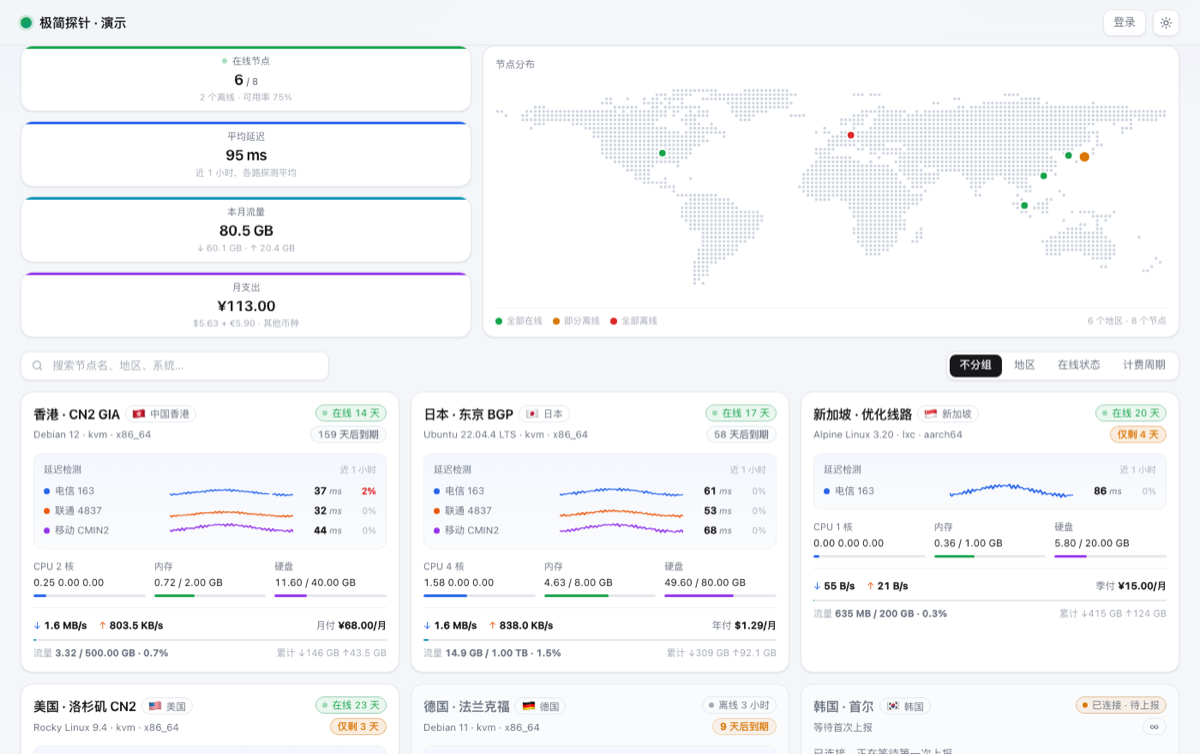
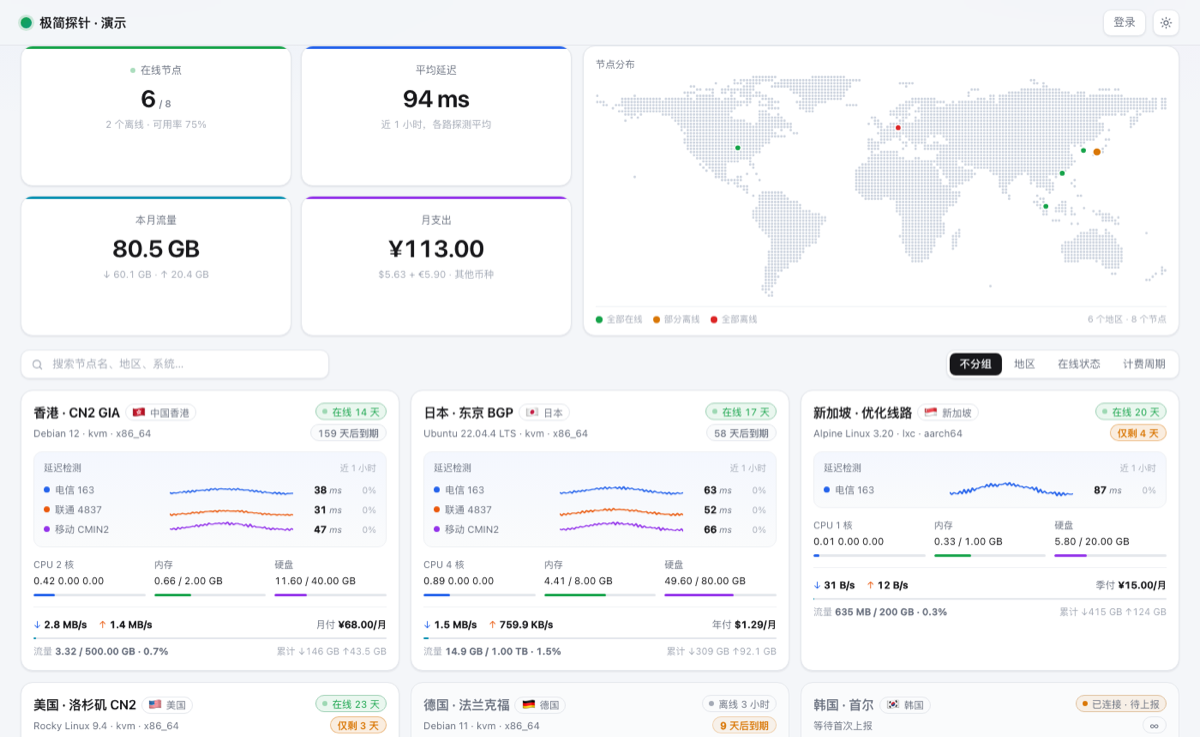
磁贴改田字格并与地图配平；修正地图网格比例

diff --git a/minimal/dist/index.html b/minimal/dist/index.html
@@ -77,11 +77,12 @@ main{padding:18px 0 64px}
 /* ---------- 顶部：磁贴靠左 + 右侧世界地图 ---------- */
 /* 类名不能叫 .top——头部 <header class="top"> 已占用，撞车会互相污染 */
 .overview{display:grid;grid-template-columns:1fr;gap:13px;margin-bottom:16px}
-/* 宽屏下磁贴竖成一列：2×2 会把每个磁贴拉得过高、留白多。
-   比例上让地图与左侧磁贴列**高度接近**（地图高 = 宽/3.33），否则高的一侧会把另一侧撑出空白。 */
-@media(min-width:1040px){
-  .overview{grid-template-columns:minmax(0,.66fr) minmax(0,1.02fr);align-items:stretch}
-  .overview .summary{grid-template-columns:1fr}
+/* 宽屏下磁贴是**田字格**（2×2），与右侧地图左右并排。
+   断点取 980 而不是 1040：平板横屏（iPad 1024）要能并排，否则会掉进单列、上下堆叠。
+   两列宽度按「两者高度接近」来定：地图高 = 宽/2.54（183×72 的等比方格），
+   磁贴块高 = 2 行 + 间距。比例失衡时高的一侧会把另一侧撑出一大块空白。 */
+@media(min-width:980px){
+  .overview{grid-template-columns:minmax(0,.48fr) minmax(0,.52fr);align-items:stretch}
 }
 .summary{display:grid;grid-template-columns:repeat(2,minmax(0,1fr));gap:11px;margin-bottom:0}
 /* 汇总磁贴：顶部一道彩色细条 + 同色的小圆点，四个磁贴各有自己的色相，
@@ -107,6 +108,13 @@ main{padding:18px 0 64px}
   .mapwrap{min-height:0}
   .overview{gap:10px}
 }
+/* 田字格里每格面积大了，字号也要跟上，否则四块大卡片里塞着四行小字显得空 */
+@media(min-width:980px){
+  .tile{padding:20px 16px 18px}
+  .tile .k{font-size:12px}
+  .tile .v{font-size:28px;margin-top:6px;letter-spacing:-.7px}
+  .tile .s{font-size:11.5px;margin-top:3px}
+}
 /* 磁贴内文字居中 */
 .tile{text-align:center}
 .tile .k{justify-content:center}
@@ -118,8 +126,10 @@ main{padding:18px 0 64px}
 .maphead .hint{font-size:11px;color:var(--faint)}
 .mapwrap{flex:1;display:flex;align-items:center;min-height:120px}
 .worldmap{display:block;width:100%;height:auto;overflow:visible}
-/* 陆地点：零长度线段 + 圆头线帽 = 圆点，比方块精致 */
-.worldmap .land{fill:none;stroke:var(--map-land);stroke-width:4.2;stroke-linecap:round}
+/* 陆地点：零长度线段 + 圆头线帽 = 圆点，比方块精致。
+   点径要跟着格子走：格距 6 单位，点径取 4.8 约合八成填充——
+   再小会在地图被缩窄后糊成灰雾，再大就几乎连成一片。 */
+.worldmap .land{fill:none;stroke:var(--map-land);stroke-width:4.8;stroke-linecap:round}
 /* 亮点是纯色圆点，颜色即在线情况 */
 .mdot{cursor:pointer;stroke:var(--panel);stroke-width:2.5;transition:stroke-width .15s}
 .mdot.t-ok{fill:var(--ok)}
@@ -479,7 +489,7 @@ var FOREVER = "\u221E";
 /* 世界地图数据：由 dev/gen-map.mjs 生成（数据源 Natural Earth 110m，公有领域）。
    含陆地点阵掩膜（每行 ceil(cols/4) 个十六进制字符，4 格/字符）与国家码→代表点经纬度。
    运行时展开成 SVG，文件里只留这份紧凑数据。 */
-var MAPDATA={"_":"由 dev/gen-map.mjs 生成，数据源 Natural Earth 110m（公有领域）。勿手改。","cols":160,"rows":48,"latMax":84,"latMin":-58,"land":["00000000003ff81ffc0000000000000000000000","0000000003be1fffff0007700000007800000000","0000003116f87ffffc00000000060007c0000000","000000701f4801fffe00000000c00fffd0020000","0070000fc6ff80fffc00001800037ffffffffe00","c1fffffaffb2e0ff800001ffcbffffffffffffff","237fffffffa7e07c03c0079fbfffffffffffffff","03fffffffe0f003800003f3fffffffffffffff7c","00703ffffc0790000000373ffffffffffffe1100","008007ffff83f8000002047ffffffffffff80700","000001fffff7fe00000b3fffffffffffffff0400","000001ffffffc2000000fffffffffffffffd0000","0000007fffffe0000001fffffffffffffffd0000","0000007fffff80000001fdf87ffffffffff18000","0000007ffffe0000000f837fbfffffffffc20000","0000007ffffe0000000f006ffffffffff1820000","0000003ffffc00000007f810fffffffff89c0000","0000000ffff00000000ffe41fffffffffc200000","00000003fc100000001ffffcfbfffffffc000000","00000001f8000000003ffffefc7ffffff8000000","0000000078000000007fffff7fc1fffff4000000","0000000078820000007fffff3fc0fe7e00000000","000000001f800000007fffff9f80783e00000000","0000000001e0000000ffffffdc00700f00000000","0000000000200000007fffffe200200302000000","00000000001ff800003ffffffc00300801000000","000000000003ff00000f3ffffc00000418000000","000000000007ff8000000ffff800001c70000000","00000000000fffc000000fffe000000cf0000000","00000000000ffffe000007ffc0000006305e1000","00000000000fffff000007ff800000010003e000","000000000007ffff000003ffc000000001014000","000000000003fffe000003ffc000000000190000","000000000003fffe000007ffc400000000f18000","0000000000007ffc000007ff0c00000003ff8000","0000000000007ffc000003ff0c0000000fffc040","0000000000007ff0000003ff180000003fffe000","0000000000007fc0000001fe000000001ffff000","000000000000ffc0000000fc000000001ffff000","000000000000ff80000000f0000000001e0ff000","000000000000fe0000000000000000000003e004","000000000001f800000000000000000000000002","000000000001e00000000000000000000000c008","000000000001e000000000000000000000000030","000000000001e000000000000000000000000000","0000000000018000000000000000000000000000","0000000000014000000000000000000000000000","0000000000000000000000000000000000000000"],"cc":{"FJ":[178,-17.7],"TZ":[34.3,-6.5],"EH":[-12,24.8],"CA":[-91.1,56.4],"US":[-90.4,38.3],"KZ":[65.3,47.3],"UZ":[65.3,41.2],"PG":[146.2,-7.8],"ID":[114,0.1],"AR":[-65.1,-37],"CL":[-71.4,-38.1],"CD":[23.1,-3.8],"SO":[46.9,6.6],"KE":[37.8,1.1],"SD":[29.3,12.8],"TD":[18,13],"HT":[-72.7,18.8],"DO":[-70.5,18.7],"RU":[90.9,59.1],"BS":[-77.9,24.5],"FK":[-59.6,-51.7],"NO":[18.1,66.2],"GL":[-41,74.1],"TF":[69.5,-49.1],"TL":[125.9,-8.7],"ZA":[24.7,-28.6],"LS":[28.4,-29.6],"MX":[-103.1,23.9],"UY":[-56.1,-32.7],"BR":[-56.9,-9.7],"BO":[-64.1,-16.3],"PE":[-74.1,-7.8],"CO":[-72.7,4.5],"PA":[-80.3,8.5],"CR":[-84.2,9.8],"NI":[-85,13.1],"HN":[-86.3,14.7],"SV":[-88.9,13.9],"GT":[-90.3,15.5],"BZ":[-88.6,17.4],"VE":[-66.9,7.2],"GY":[-58.9,4.5],"SR":[-55.9,3.7],"FR":[3.3,47],"EC":[-78.7,-1.6],"PR":[-66.4,18.3],"JM":[-77.3,18.2],"CU":[-79.7,21.7],"ZW":[29.7,-18.9],"BW":[24.5,-22.5],"NA":[17.9,-21.6],"SN":[-14.6,13.9],"ML":[-5.8,14.1],"MR":[-12.4,18.8],"BJ":[2.3,9.8],"NE":[8.7,15.5],"NG":[8.3,9.7],"CM":[13.2,6.9],"TG":[0.9,8.9],"GH":[-1,8.3],"CI":[-6.3,7.9],"GN":[-11,10.4],"GW":[-15.2,12],"LR":[-9.1,6.8],"SL":[-11.7,8.6],"BF":[-1.9,12.1],"CF":[20.7,6.3],"CG":[14.9,-0.9],"GA":[11.9,-0.3],"GQ":[10.1,1.6],"ZM":[28,-12.8],"MW":[34.1,-12.9],"MZ":[35,-17.7],"SZ":[31.4,-26.4],"AO":[17.4,-10.9],"BI":[30,-3.2],"IL":[35.1,32],"LB":[35.9,33.8],"MG":[47,-18],"PS":[35.2,31.8],"GM":[-15.3,13.5],"TN":[9.8,34],"DZ":[3,29.7],"JO":[36.7,31.1],"AE":[54.2,24.2],"QA":[51.2,25.3],"KW":[47.7,29.3],"IQ":[44.4,33.4],"OM":[56.6,20.9],"VU":[166.9,-15.4],"KH":[104.9,12.6],"TH":[100.7,13.2],"LA":[103.7,18.3],"MM":[97.2,20],"VN":[105.9,16.7],"KP":[127.4,39.9],"KR":[127.5,36.7],"MN":[104.6,47.2],"IN":[83.6,24],"BD":[90.6,23.4],"BT":[90.6,27.5],"NP":[84.6,28.2],"PK":[69.4,30.8],"AF":[67.8,34.8],"TJ":[70.8,38.5],"KG":[74,41.4],"TM":[58.5,39.3],"IR":[53.2,33.4],"SY":[38,35.1],"AM":[45.3,39.9],"SE":[16.6,62.7],"BY":[28.3,53.3],"UA":[30.5,48.7],"PL":[19.5,51.7],"AT":[13.5,47.6],"HU":[19.2,47.4],"MD":[28.5,47],"RO":[25.2,45.9],"LT":[24,55.2],"LV":[24.9,56.9],"EE":[26.1,58.7],"DE":[10.7,51],"BG":[24.7,42.9],"GR":[23.1,39.8],"TR":[36.9,38.4],"AL":[20.1,41.3],"HR":[16.4,44.8],"CH":[8.3,46.8],"LU":[6,49.8],"BE":[4.4,50.7],"NL":[5.5,52.1],"PT":[-8,39.8],"ES":[-4.5,40.2],"IE":[-7.7,53.5],"NC":[165.5,-21.2],"SB":[159.1,-7.9],"NZ":[171,-43.5],"AU":[133.2,-23.8],"LK":[80.9,7.6],"CN":[105.7,37.3],"TW":[121.1,23.9],"IT":[12.6,43.1],"DK":[9.6,56.3],"GB":[-3.1,53.9],"IS":[-19.3,65.3],"AZ":[47.4,40.4],"GE":[43.4,42.3],"PH":[121.8,15.4],"MY":[114.8,3.7],"BN":[115,4.7],"SI":[15,46.1],"FI":[25.9,65.2],"SK":[19.4,48.8],"CZ":[15.8,49.8],"ER":[39.6,14.7],"JP":[136,35.7],"PY":[-57.6,-23.3],"YE":[46.5,15.5],"SA":[43.6,24],"AQ":[-2.7,-73],"CY":[33.2,35],"MA":[-9.4,28.8],"EG":[31.7,28.2],"LY":[16.6,28.5],"ET":[39.2,9],"DJ":[42.5,11.8],"UG":[32,1.3],"RW":[29.9,-2],"BA":[17.9,44.2],"MK":[21.6,41.7],"RS":[20.9,43.9],"ME":[19.4,42.7],"XK":[21,42.5],"TT":[-61.5,10.5],"SS":[30.1,8],"HK":[114.1,22.3],"MO":[113.5,22.2],"SG":[103.8,1.35],"BH":[50.6,26],"MT":[14.4,35.9],"MU":[57.6,-20.3],"SC":[55.5,-4.6],"MV":[73.5,3.2],"LI":[9.5,47.1],"MC":[7.4,43.7],"SM":[12.5,43.9],"AD":[1.6,42.5],"GI":[5.35,36.14],"BM":[-64.8,32.3],"KY":[-81.3,19.3],"VG":[-64.6,18.4],"CW":[-68.9,12.2],"AW":[-70,12.5],"GU":[144.8,13.4],"MP":[145.7,15.1],"AS":[-170.7,-14.3],"PF":[-149.5,-17.7],"WS":[-172.1,-13.8],"TO":[-175.2,-21.2],"CK":[-159.8,-21.2],"NU":[-169.9,-19.1],"TK":[-171.8,-9.2],"WF":[-176.2,-13.3],"PW":[134.6,7.4],"FM":[158.2,6.9],"MH":[171.2,7.1]}};
+var MAPDATA={"_":"由 dev/gen-map.mjs 生成，数据源 Natural Earth 110m（公有领域）。勿手改。","cols":183,"rows":72,"latMax":84,"latMin":-58,"land":["0000000000003fc007ff00000000000000000000000000","00000000000bff9ffffff8000000000000180000000000","00000000020ef87fffffc0007c000000000d0000000000","000000030021e0ffffffc0001000000000018000000000","00000000dcffe003ffff8000000000e000fff8007b0000","0000000f04dbd801ffff0000000001000fffff38000000","80080004fc13fe007fff0000000001037ffffffbff8001","00fffbfeff78c7803ffe000007f8003b7fffffffffffb7","e0ffffffffffc9e0ffc000001fff2fff7ffffffffffff7","33fffffffffe8f807e00f0007cf8fffffffffffffffff7","047ffffffff801e07c000000f9fffffffffffffffffff6","01fffffffff00e001c000003f3ffffffffffffffffe5e0","007a07ffffe00f2000000003f8fffffffffffffffec600","001400fffff00ff0000000c0b2ffffffffffffffc01c00","0040007fffff0ff80000006063ffffffffffffff801c00","0000003fffffdffe00000173ffffffffffffffffe01800","0000001ffffffffe00000037ffffffffffffffffe01000","00000017ffffff920000001fffffffffffffffffe80000","0000000fffffffc18000003fffffffffffffffffc00000","00000007fffffff80000001fdfe9ffffffffffff800000","0000000fffffff000000019e4fc0ffffffffffff180000","0000000fffffff00000001f837cc7ffffffffff8000000","00000007fffffc00000001e0127fffffffffff50100000","00000007fffff800000001e0227fffffffffff08200000","00000003fffff8000000009f8003ffffffffff08600000","00000001ffffe000000000ff8007ffffffffff81800000","00000000ffffc000000001ffe307ffffffffff80000000","000000003ffc4000000001fffffff7ffffffffc0000000","000000005fc06000000007fffff7f3ffffffff80000000","000000002fc0200000000ffffffbfc7fffffff00000000","0000000017c0000000001ffffffdff83fffffe00000000","0000000003c0900000001ffffffdffc1ffbff800000000","0008000003c6000000001ffffffcff807e1f9000000000","0000000000fe080000001ffffffe7f007c1fc040000000","00000000002c000000001ffffffe7c007817e080000000","000000000007800000001ffffffff0007007e040000000","000000000001800000001fffffffc0003000e000000000","00000000000087f000000ffffffff80030004000000000","0000000000002ff8000007fffffff80008040030000000","0000000000000ffc000003f3fffff00008030000000000","0000000000000fff80000000fffff000000d0600000000","0000000000000fffc0000000ffffe00000060e00000000","0000000000001fffc0000000ffff800000031e88000000","0000000000003ffff8000000ffff800000019e81400000","0000000000003fffff0000007fff0000000182c0f80000","0000000000003fffffc000003ffe0000000000003d0000","0000000000001fffffc000003ffe0000000038003e0000","0000000000000fffff8000003fff0000000000a0030000","0000000000000fffff0000003fff000000000000000000","00000000000007ffff0000003fff080000000003900000","00000000000003ffff0000003fff18000000001f980080","00000000000001ffff0000007ffe38000000003ffc0000","00000000000000fffe0000003ff830000000007ffe0000","00000000000000fffe0000003ff83000000003fffe0000","00000000000000fff80000001ff83000000007ffff0000","00000000000000ffe00000001ff02000000007ffff8000","00000000000001ffe00000001ff00000000007ffff8000","00000000000001ffc00000000fe00000000003ffff8000","00000000000001ffc000000007e00000000003ffff8000","00000000000001ff8000000007800000000003e0bf8000","00000000000001fc0000000000000000000000003f0000","00000000000003fc0000000000000000000000001f0004","00000000000003f0000000000000000000000000000006","00000000000003c0000000000000000000000000060014","00000000000003e0000000000000000000000000000020","00000000000003c00000000000000000000000000000c0","00000000000003c0000000000000000000000000000000","0000000000000780000000000000000200000000000000","0000000000000700000000000000000000000000000000","0000000000000280000000000000000000000000000000","0000000000000180000000000000000000000000000000","0000000000000000000000000000000000000000000000"],"cc":{"FJ":[178,-17.7],"TZ":[34.3,-6.5],"EH":[-12,24.8],"CA":[-91.1,56.4],"US":[-90.4,38.3],"KZ":[65.3,47.3],"UZ":[65.3,41.2],"PG":[146.2,-7.8],"ID":[114,0.1],"AR":[-65.1,-37],"CL":[-71.4,-38.1],"CD":[23.1,-3.8],"SO":[46.9,6.6],"KE":[37.8,1.1],"SD":[29.3,12.8],"TD":[18,13],"HT":[-72.7,18.8],"DO":[-70.5,18.7],"RU":[90.9,59.1],"BS":[-77.9,24.5],"FK":[-59.6,-51.7],"NO":[18.1,66.2],"GL":[-41,74.1],"TF":[69.5,-49.1],"TL":[125.9,-8.7],"ZA":[24.7,-28.6],"LS":[28.4,-29.6],"MX":[-103.1,23.9],"UY":[-56.1,-32.7],"BR":[-56.9,-9.7],"BO":[-64.1,-16.3],"PE":[-74.1,-7.8],"CO":[-72.7,4.5],"PA":[-80.3,8.5],"CR":[-84.2,9.8],"NI":[-85,13.1],"HN":[-86.3,14.7],"SV":[-88.9,13.9],"GT":[-90.3,15.5],"BZ":[-88.6,17.4],"VE":[-66.9,7.2],"GY":[-58.9,4.5],"SR":[-55.9,3.7],"FR":[3.3,47],"EC":[-78.7,-1.6],"PR":[-66.4,18.3],"JM":[-77.3,18.2],"CU":[-79.7,21.7],"ZW":[29.7,-18.9],"BW":[24.5,-22.5],"NA":[17.9,-21.6],"SN":[-14.6,13.9],"ML":[-5.8,14.1],"MR":[-12.4,18.8],"BJ":[2.3,9.8],"NE":[8.7,15.5],"NG":[8.3,9.7],"CM":[13.2,6.9],"TG":[0.9,8.9],"GH":[-1,8.3],"CI":[-6.3,7.9],"GN":[-11,10.4],"GW":[-15.2,12],"LR":[-9.1,6.8],"SL":[-11.7,8.6],"BF":[-1.9,12.1],"CF":[20.7,6.3],"CG":[14.9,-0.9],"GA":[11.9,-0.3],"GQ":[10.1,1.6],"ZM":[28,-12.8],"MW":[34.1,-12.9],"MZ":[35,-17.7],"SZ":[31.4,-26.4],"AO":[17.4,-10.9],"BI":[30,-3.2],"IL":[35.1,32],"LB":[35.9,33.8],"MG":[47,-18],"PS":[35.2,31.8],"GM":[-15.3,13.5],"TN":[9.8,34],"DZ":[3,29.7],"JO":[36.7,31.1],"AE":[54.2,24.2],"QA":[51.2,25.3],"KW":[47.7,29.3],"IQ":[44.4,33.4],"OM":[56.6,20.9],"VU":[166.9,-15.4],"KH":[104.9,12.6],"TH":[100.7,13.2],"LA":[103.7,18.3],"MM":[97.2,20],"VN":[105.9,16.7],"KP":[127.4,39.9],"KR":[127.5,36.7],"MN":[104.6,47.2],"IN":[83.6,24],"BD":[90.6,23.4],"BT":[90.6,27.5],"NP":[84.6,28.2],"PK":[69.4,30.8],"AF":[67.8,34.8],"TJ":[70.8,38.5],"KG":[74,41.4],"TM":[58.5,39.3],"IR":[53.2,33.4],"SY":[38,35.1],"AM":[45.3,39.9],"SE":[16.6,62.7],"BY":[28.3,53.3],"UA":[30.5,48.7],"PL":[19.5,51.7],"AT":[13.5,47.6],"HU":[19.2,47.4],"MD":[28.5,47],"RO":[25.2,45.9],"LT":[24,55.2],"LV":[24.9,56.9],"EE":[26.1,58.7],"DE":[10.7,51],"BG":[24.7,42.9],"GR":[23.1,39.8],"TR":[36.9,38.4],"AL":[20.1,41.3],"HR":[16.4,44.8],"CH":[8.3,46.8],"LU":[6,49.8],"BE":[4.4,50.7],"NL":[5.5,52.1],"PT":[-8,39.8],"ES":[-4.5,40.2],"IE":[-7.7,53.5],"NC":[165.5,-21.2],"SB":[159.1,-7.9],"NZ":[171,-43.5],"AU":[133.2,-23.8],"LK":[80.9,7.6],"CN":[105.7,37.3],"TW":[121.1,23.9],"IT":[12.6,43.1],"DK":[9.6,56.3],"GB":[-3.1,53.9],"IS":[-19.3,65.3],"AZ":[47.4,40.4],"GE":[43.4,42.3],"PH":[121.8,15.4],"MY":[114.8,3.7],"BN":[115,4.7],"SI":[15,46.1],"FI":[25.9,65.2],"SK":[19.4,48.8],"CZ":[15.8,49.8],"ER":[39.6,14.7],"JP":[136,35.7],"PY":[-57.6,-23.3],"YE":[46.5,15.5],"SA":[43.6,24],"AQ":[-2.7,-73],"CY":[33.2,35],"MA":[-9.4,28.8],"EG":[31.7,28.2],"LY":[16.6,28.5],"ET":[39.2,9],"DJ":[42.5,11.8],"UG":[32,1.3],"RW":[29.9,-2],"BA":[17.9,44.2],"MK":[21.6,41.7],"RS":[20.9,43.9],"ME":[19.4,42.7],"XK":[21,42.5],"TT":[-61.5,10.5],"SS":[30.1,8],"HK":[114.1,22.3],"MO":[113.5,22.2],"SG":[103.8,1.35],"BH":[50.6,26],"MT":[14.4,35.9],"MU":[57.6,-20.3],"SC":[55.5,-4.6],"MV":[73.5,3.2],"LI":[9.5,47.1],"MC":[7.4,43.7],"SM":[12.5,43.9],"AD":[1.6,42.5],"GI":[5.35,36.14],"BM":[-64.8,32.3],"KY":[-81.3,19.3],"VG":[-64.6,18.4],"CW":[-68.9,12.2],"AW":[-70,12.5],"GU":[144.8,13.4],"MP":[145.7,15.1],"AS":[-170.7,-14.3],"PF":[-149.5,-17.7],"WS":[-172.1,-13.8],"TO":[-175.2,-21.2],"CK":[-159.8,-21.2],"NU":[-169.9,-19.1],"TK":[-171.8,-9.2],"WF":[-176.2,-13.3],"PW":[134.6,7.4],"FM":[158.2,6.9],"MH":[171.2,7.1]}};
 var HHMM = new Intl.DateTimeFormat("zh-CN", { hour:"2-digit", minute:"2-digit" });
 var MDHHMM = new Intl.DateTimeFormat("zh-CN", { month:"2-digit", day:"2-digit", hour:"2-digit", minute:"2-digit" });
 var YMD = new Intl.DateTimeFormat("zh-CN", { year:"numeric", month:"2-digit", day:"2-digit" });

diff --git a/README.md b/README.md
@@ -14,20 +14,21 @@ monitor 探针的公开状态页主题。纯静态 SPA，**零依赖、零构建
 ## 主界面结构
 
 ```
-┌──────────────────┬────────────────────────────────────┐
-│   在线节点 6/8   │                                    │
-│   平均延迟 94ms  │         世界地图（点阵）            │
-│  本月流量 80 GB  │   ● 全在线  ● 部分离线  ● 全离线     │
-│   月支出 ¥113    │   6 个地区 · 8 个节点               │
-├──────────────────┴────────────────────────────────────┤
-│ [搜索节点名、地区、系统…]        [不分组│地区│在线状态│计费周期] │
+┌───────────────────────┬───────────────────────────────┐
+│  在线节点 6/8 │ 平均延迟 │                             │
+│  本月流量     │ 月支出   │      世界地图（点阵）        │
+│  （田字格 2×2）        │   ● 全在线 ● 部分离线 ● 全离线 │
+├───────────────────────┴───────────────────────────────┤
+│ [搜索节点名、地区、系统…]      [不分组│地区│在线状态│计费周期] │
 ├───────────────────────────────────────────────────────┤
 │ 🇯🇵 日本  3                                             │
 │  [卡片]  [卡片]  [卡片]                                 │
-│ 🇭🇰 中国香港  1                                         │
-│  [卡片]                                                │
 └───────────────────────────────────────────────────────┘
 ```
+
+汇总磁贴是**田字格（2×2）**，与右侧地图左右并排，两列高度配平；宽度比 `.48fr / .52fr`
+是按「两者高度接近」算出来的——比例失衡时高的一侧会把另一侧撑出一大块空白。
+并排断点取 **980px** 而不是 1040：平板横屏（iPad 1024）要能并排，否则会掉进单列上下堆叠。
 
 工具栏一行放下时，搜索框靠左、分组控件**靠右**（`margin-left:auto`）。
 窄屏（≤560px）下两者各占一行且**等宽**——搜索框必须去掉 `max-width`，
@@ -61,18 +62,23 @@ monitor 探针的公开状态页主题。纯静态 SPA，**零依赖、零构建
 **数据来源与限制**：hub 的节点只给一个 `country`（ISO 3166-1 alpha-2），**没有经纬度**，所以地图只能按国家定位，同一国家的多个节点合并成一个亮点。
 
 陆地是点阵而非矢量轮廓——由 `dev/gen-map.mjs` 从 Natural Earth 110m（公有领域）生成，
-编码成每行 `cols/4` 个十六进制字符（4 格/字符），**文件里只留 5.6 KB，运行时展开成约 2300 个子路径**。
+编码成每行 `cols/4` 个十六进制字符（4 格/字符），**文件里只留 7.0 KB，运行时展开成约 4000 个子路径**。
 点阵比填充轮廓更贴合这套极简配色，也小两个数量级。只画纬度 84°N–58°S：南极洲不可能有节点。
 
 两个让它更精致的细节：
 
 - **点是圆的**。用「零长度线段 + 圆头线帽」（`h.01` 配 `stroke-linecap:round`）画，比方块路径
-  （`h4v4h-4z`）还短，而方块在斜向海岸线上会露出锯齿。
-- **网格是 160×48**（约 2.25° 一格）。早先用 120 列时海岸线明显发糊；加密后仍然只有 5.6 KB，
-  因为存的是位图而不是路径。
+  （`h4v4h-4z`）还短，而方块在斜向海岸线上会露出锯齿。点径取格距的八成（格距 6 单位、点径 4.8）：
+  再小会在窄屏上糊成灰雾，再大就几乎连成一片。
+- **网格是 183×72**（约 1.97° 一格，比最初的 120×48 细 1.5 倍）。存的是位图不是路径，
+  加密后文件也只从 5.1 KB 涨到 7.0 KB。
+
+**网格必须等比**：`cols/rows` 要等于 `360/纬度跨度`（本主题是 360/142 = 2.535），
+否则每格经纬度不等、地图会被横向拉伸。我一度只把列数从 120 加到 160 而没动行数，
+结果拉宽了 31%，大洲明显发扁——**这种变形看截图很难发现，算一下格子的经纬度就露馅了**。
 
 顶部区块的高度也是量出来的：曾经 398px 高，且是被**磁贴**（每块 91px × 4）撑起来的而不是地图。
-现在磁贴压到约 77px、地图宽高比从 2.5 提到 3.33，桌面 341px、手机 368px。
+现在磁贴是田字格、每格约 164px，桌面 339px、平板横屏 261px。
 
 | 交互 | 行为 |
 | --- | --- |
